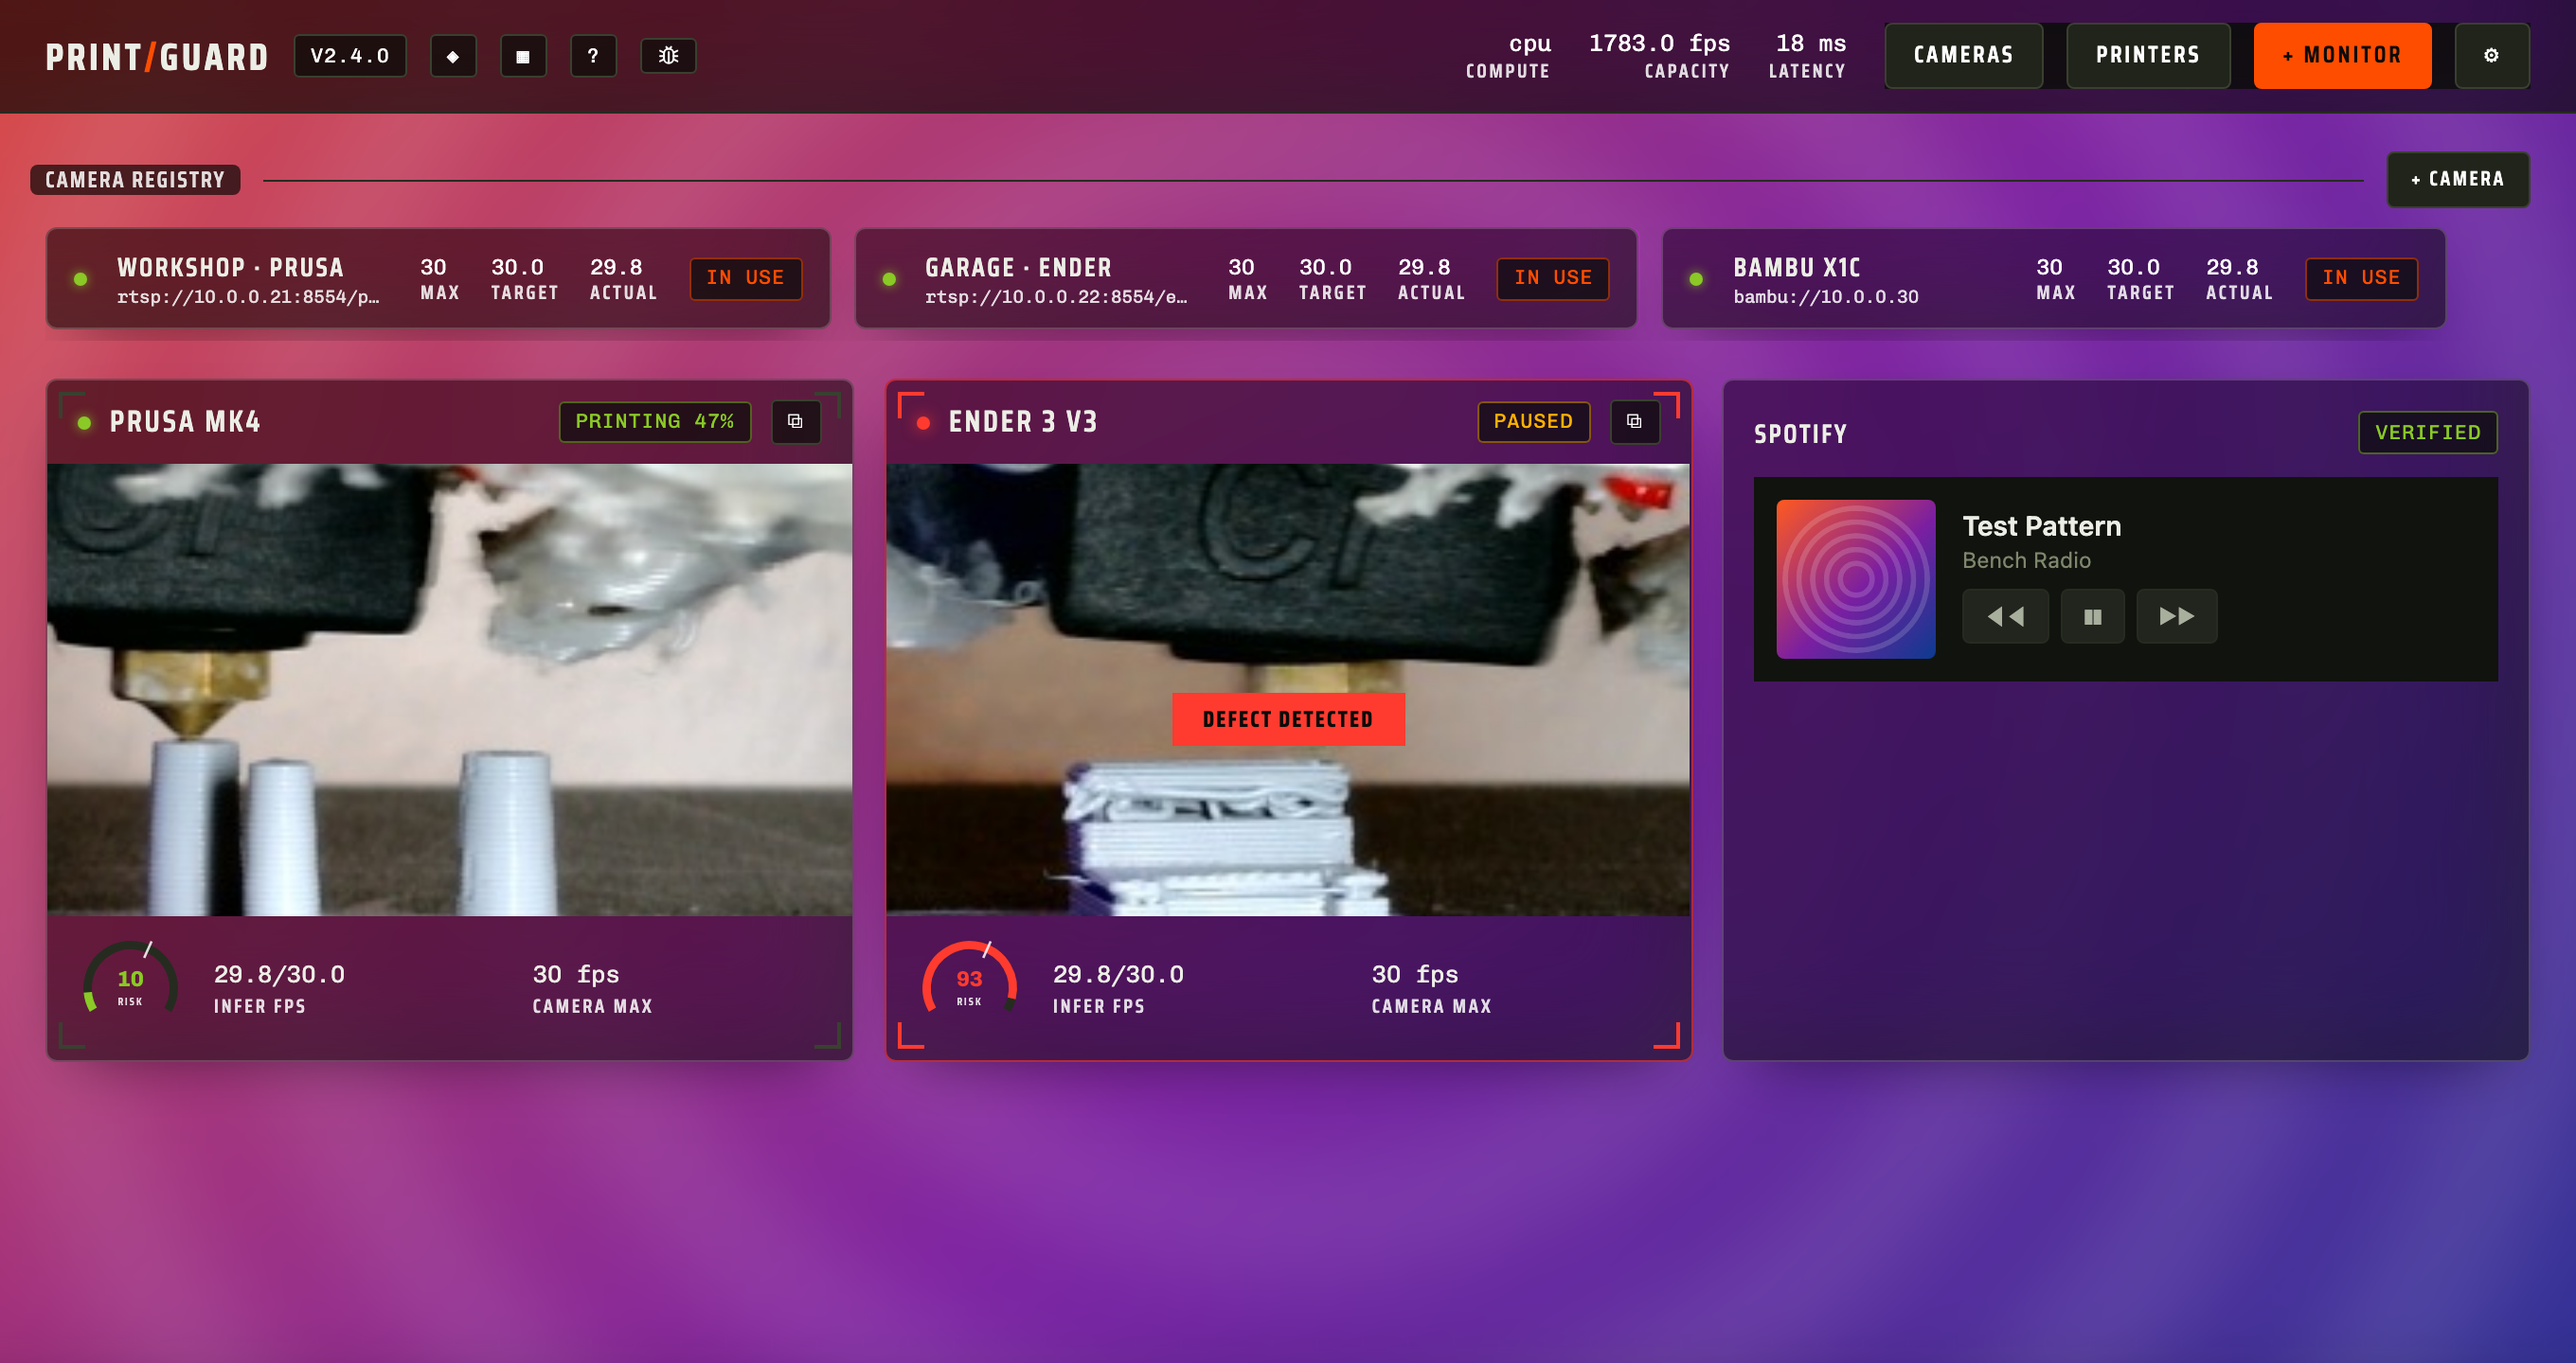
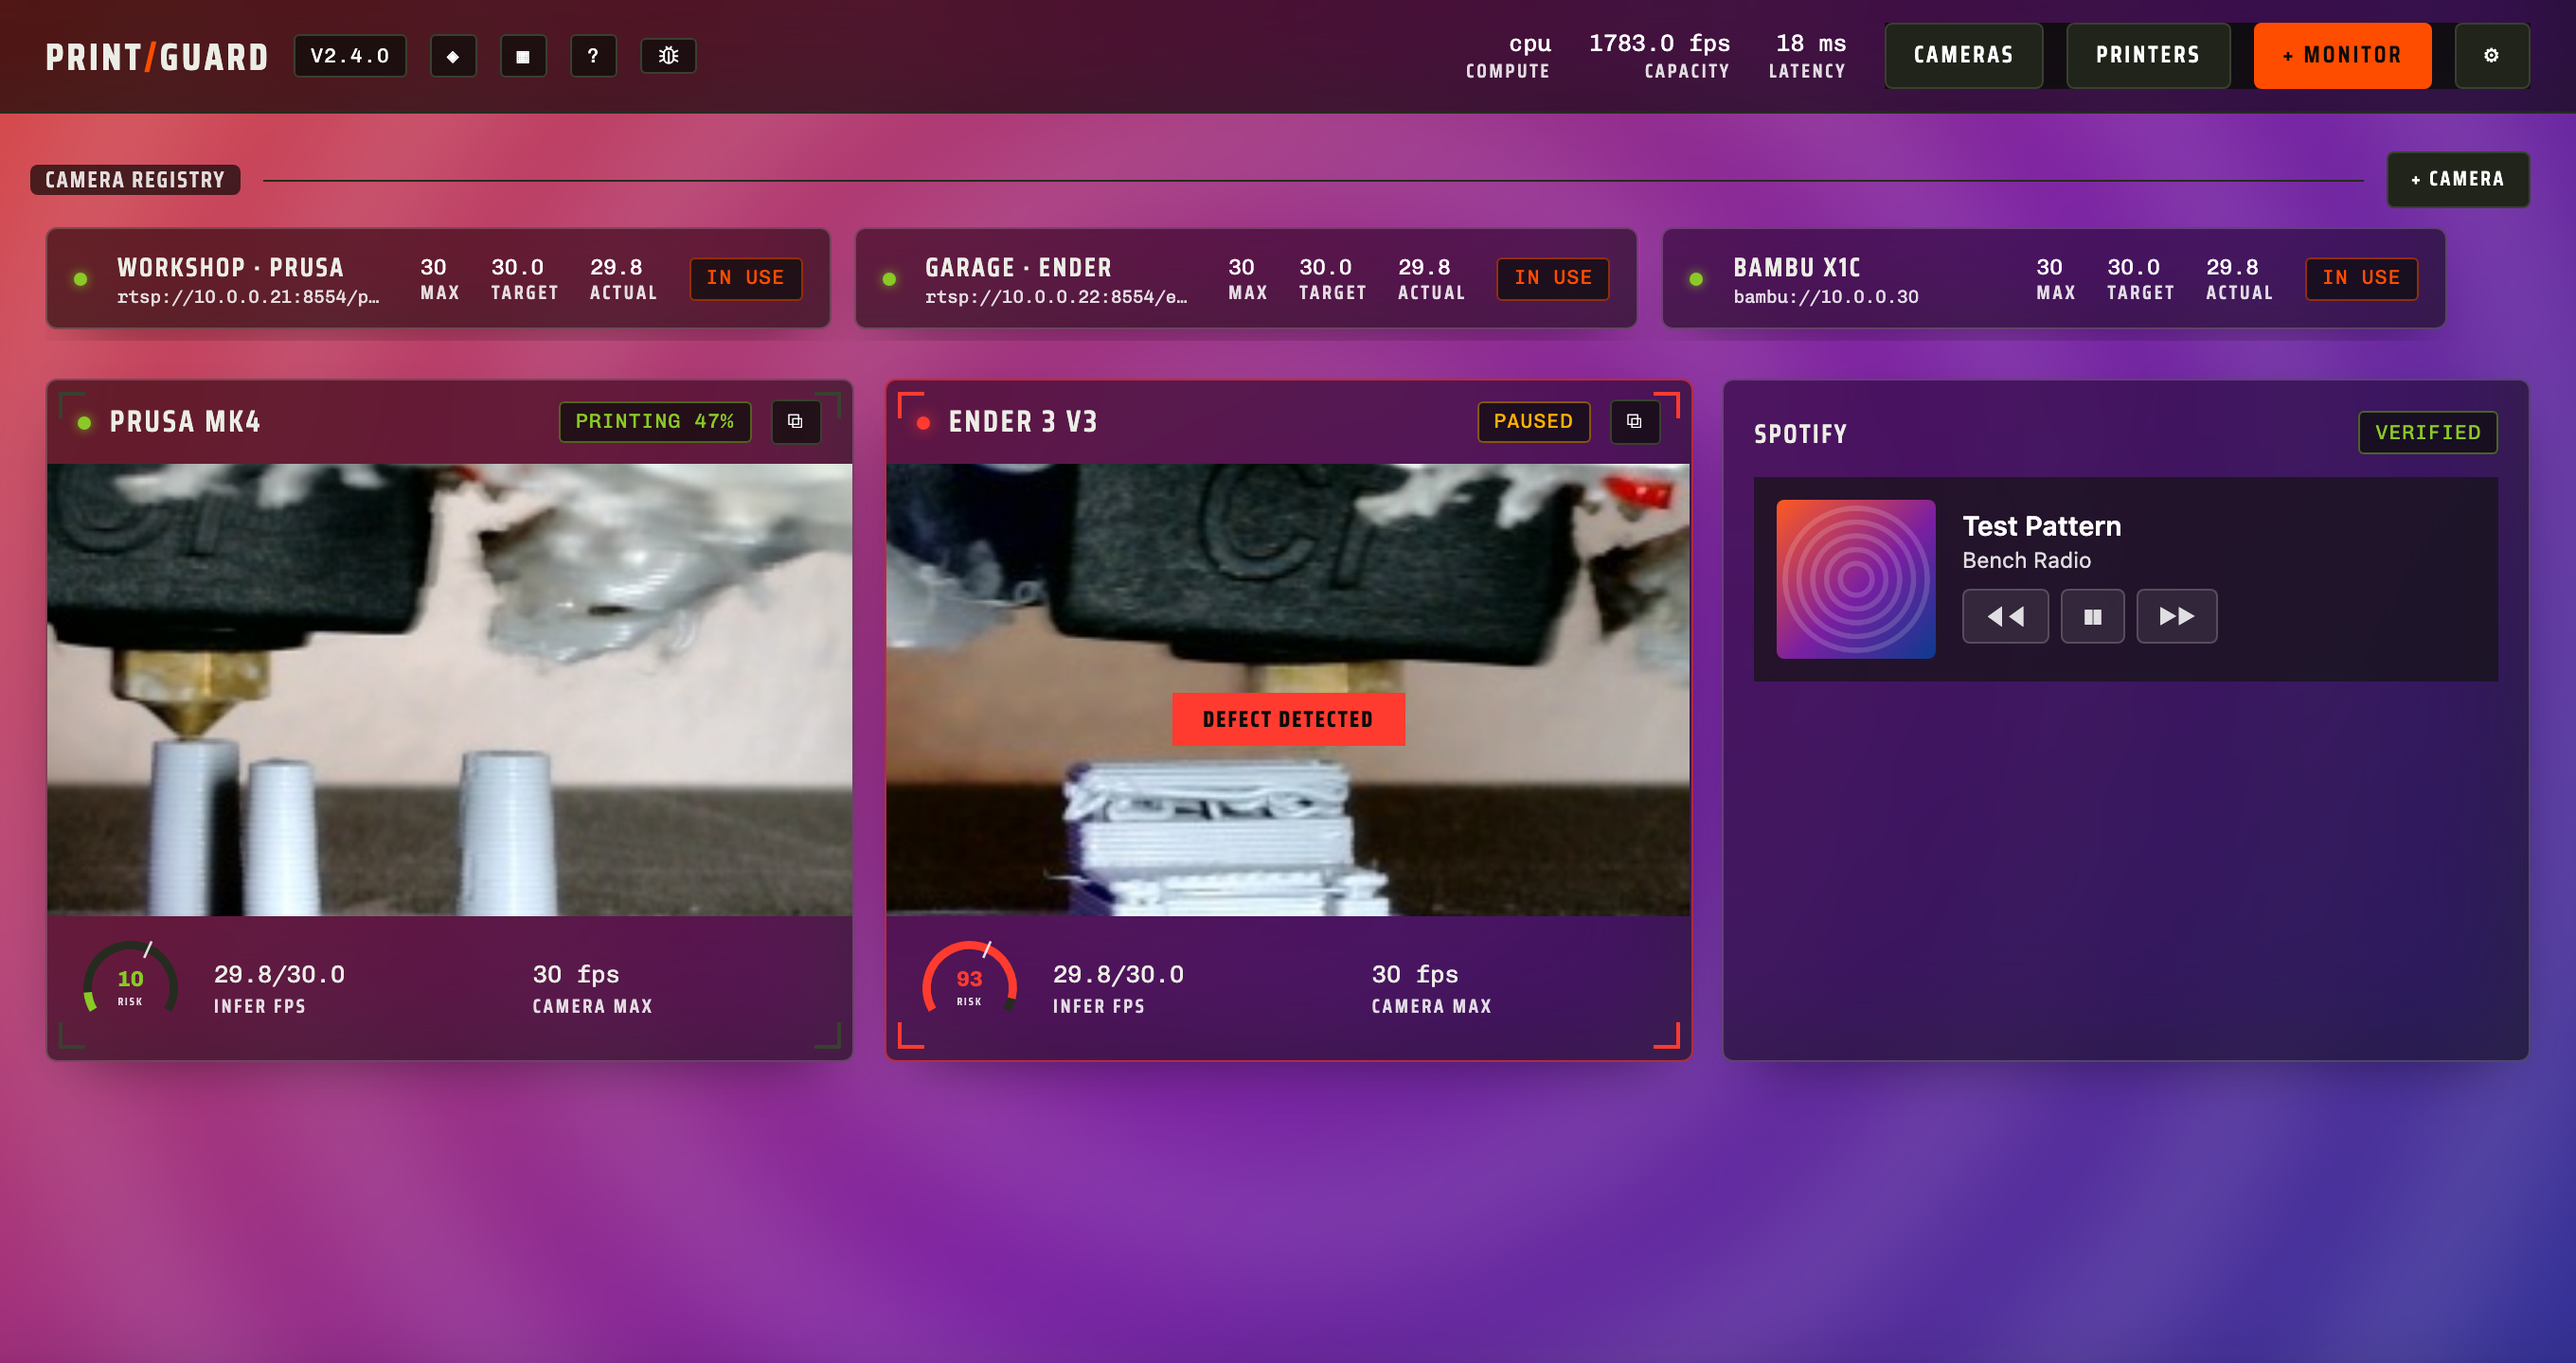
Lock the Spotify panel to the Glass look

Changed region(s): [[0.6562, 0.3438, 0.9688, 0.5]]

diff --git a/plugins/spotify/panel.html b/plugins/spotify/panel.html
@@ -10,18 +10,18 @@
   sign-in, filled in as the request leaves, so this file never sees one.
 -->
 <style>
-  /* Spotify's own artwork sets the mood here, so the panel stays dark whatever
-     theme the dashboard is on. Overriding the tokens PrintGuard injects is all
-     it takes, since they arrive on :root ahead of this. */
+  /* The cover sets the mood, so the panel locks to the Glass theme whatever the
+     dashboard is on. The tokens PrintGuard injects arrive on :root ahead of
+     this, so overriding them here is all it takes. */
   :root {
     color-scheme: dark;
-    --color-text-0: #eceee6;
-    --color-text-1: #a8af9c;
-    --color-text-2: #7e866d;
-    --color-line-0: #262b20;
+    --color-text-0: #ffffff;
+    --color-text-1: rgb(255 255 255 / 0.85);
+    --color-text-2: rgb(255 255 255 / 0.85);
+    --color-line-0: rgb(255 255 255 / 0.18);
   }
   body {
-    background: #11130e;
+    background: color-mix(in srgb, #11130e 65%, transparent);
     border-radius: 6px;
     color: var(--color-text-0);
     display: flex;
